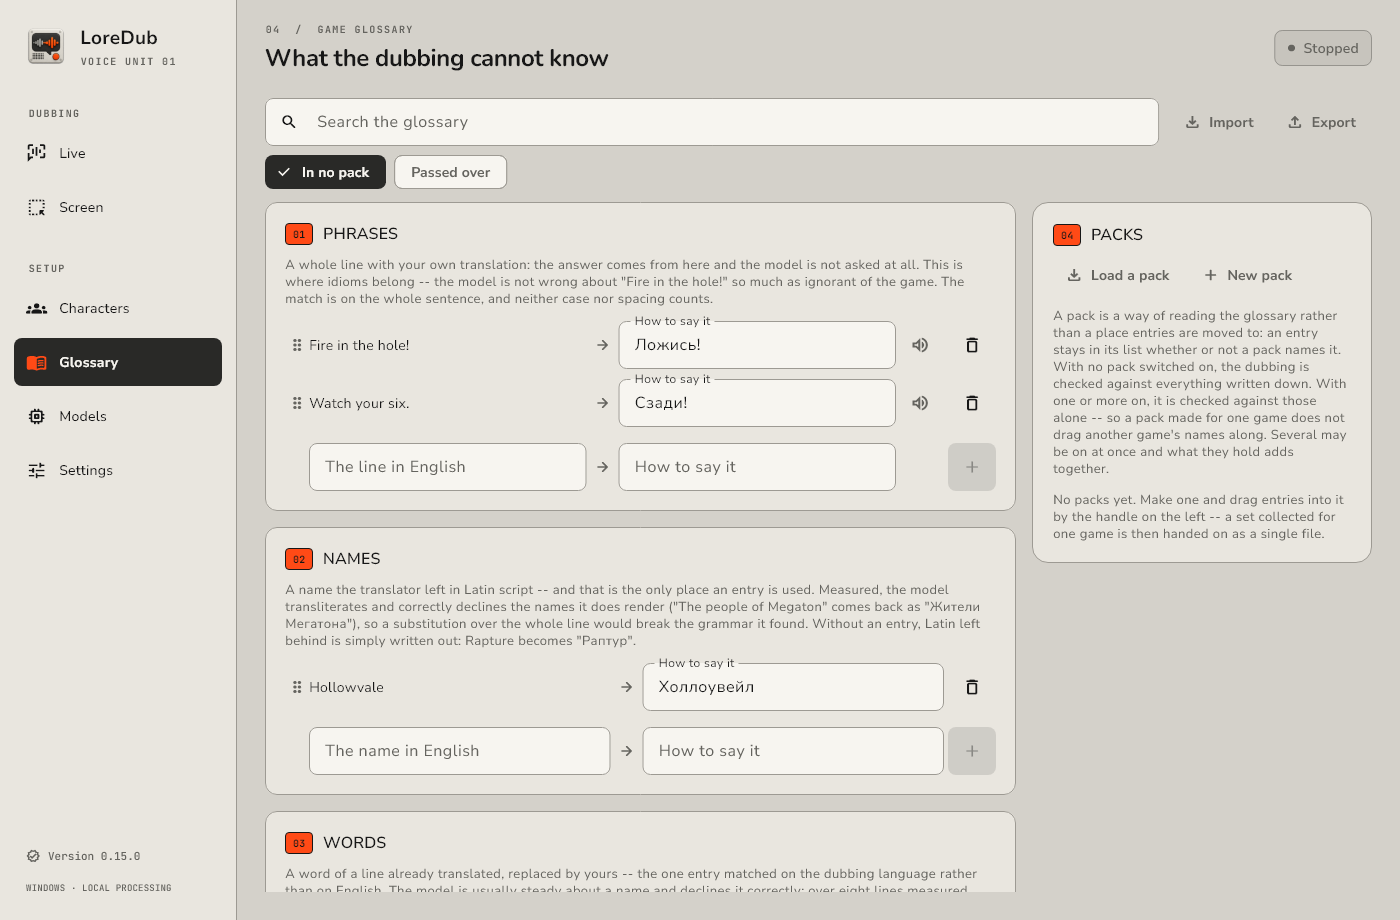
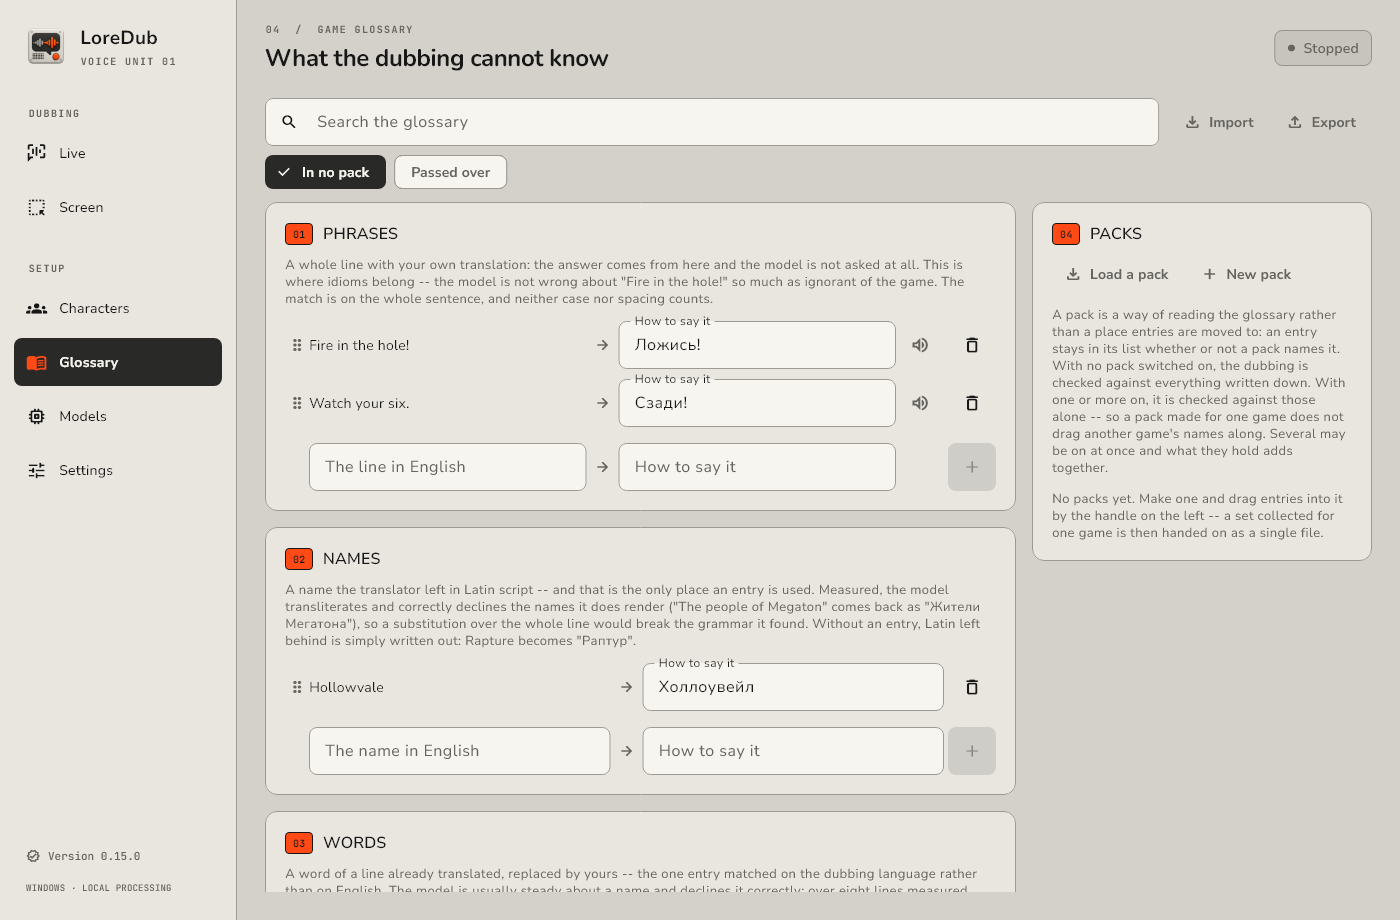
fix: draw the glossary's pack shelf as the card it stands beside
It was a `Container` with a `BoxDecoration` written by hand, which is
where its own corner came from: sixteen against the twelve
`docs/UI_DESIGN.md` promises and the theme gives every other card on
that page. It is a `Card` now, so the corner, the face and the outline
all come from one place. The two glossary screenshots move only in the
anti-aliasing under the note, a `Material` compositing its surface
differently.

That closes the last of stage 2's odds and ends.

`dist/` is ignored from here on: `scripts/build_setup.ps1` leaves a
quarter-gigabyte installer there, the release workflow uploads it rather
than keeping it, and a `git add -A` was sweeping it into a commit.

Changed region(s): [[0.7371, 0.3348, 0.9521, 0.6087], [0.7371, 0.2435, 0.8293, 0.3043], [0.86, 0.2739, 0.9214, 0.3043]]

diff --git a/lib/src/ui/glossary/glossary_packs_section.dart b/lib/src/ui/glossary/glossary_packs_section.dart
@@ -53,13 +53,11 @@ class GlossaryPacksSection extends StatelessWidget {
   @override
   Widget build(BuildContext context) {
     final l10n = AppLocalizations.of(context);
-    return Container(
+    // A `Card`, like the three lists it stands under: drawn by hand it had
+    // a corner of its own, sixteen against the twelve `docs/UI_DESIGN.md`
+    // promises and the theme gives.
+    return Card(
       key: const ValueKey('glossaryPacks'),
-      decoration: BoxDecoration(
-        color: context.colors.panel,
-        borderRadius: const BorderRadius.all(Radius.circular(16)),
-        border: Border.all(color: context.colors.outline),
-      ),
       child: Padding(
         padding: const EdgeInsets.all(20),
         child: Column(

diff --git a/TODO.md b/TODO.md
@@ -480,7 +480,7 @@ lib/src/ui/
       берут его с контекста, тест подставляет свой. Импорт словаря
       возвращает, сколько прочитал, и говорит это SnackBar'ом, как состав.
       Событием блока результат станет вместе с этапом 4.
-- [ ] Мелочи: `CharacterTile.soundFiles/soundAmong` → `domain/`;
+- [x] Мелочи: `CharacterTile.soundFiles/soundAmong` → `domain/`;
       `_SchemeCard` пересобирает граф на каждый `build`, а у `PipelineGraph`
       нет `==`, так что миниатюра перерисовывается всегда
       (`pipeline_shelf.dart:227`, `:520`); карточка паков словаря рисует
@@ -488,6 +488,9 @@ lib/src/ui/
       *Миниатюра схемы — сделано:* `SchemePainter` берёт схему и состав и
       строит граф только при рисовании; полка разобрана в `graph/shelf/`.
       *Звуковые файлы — сделано:* `domain/sound_files.dart`.
+      *Радиус — сделано:* карточка паков была нарисована руками
+      (`Container` с `BoxDecoration`), оттуда и свой угол. Теперь это
+      `Card`, как три списка рядом, и угол, цвет и кант приходят из темы.
 
 ### Доступность (P2)
 
